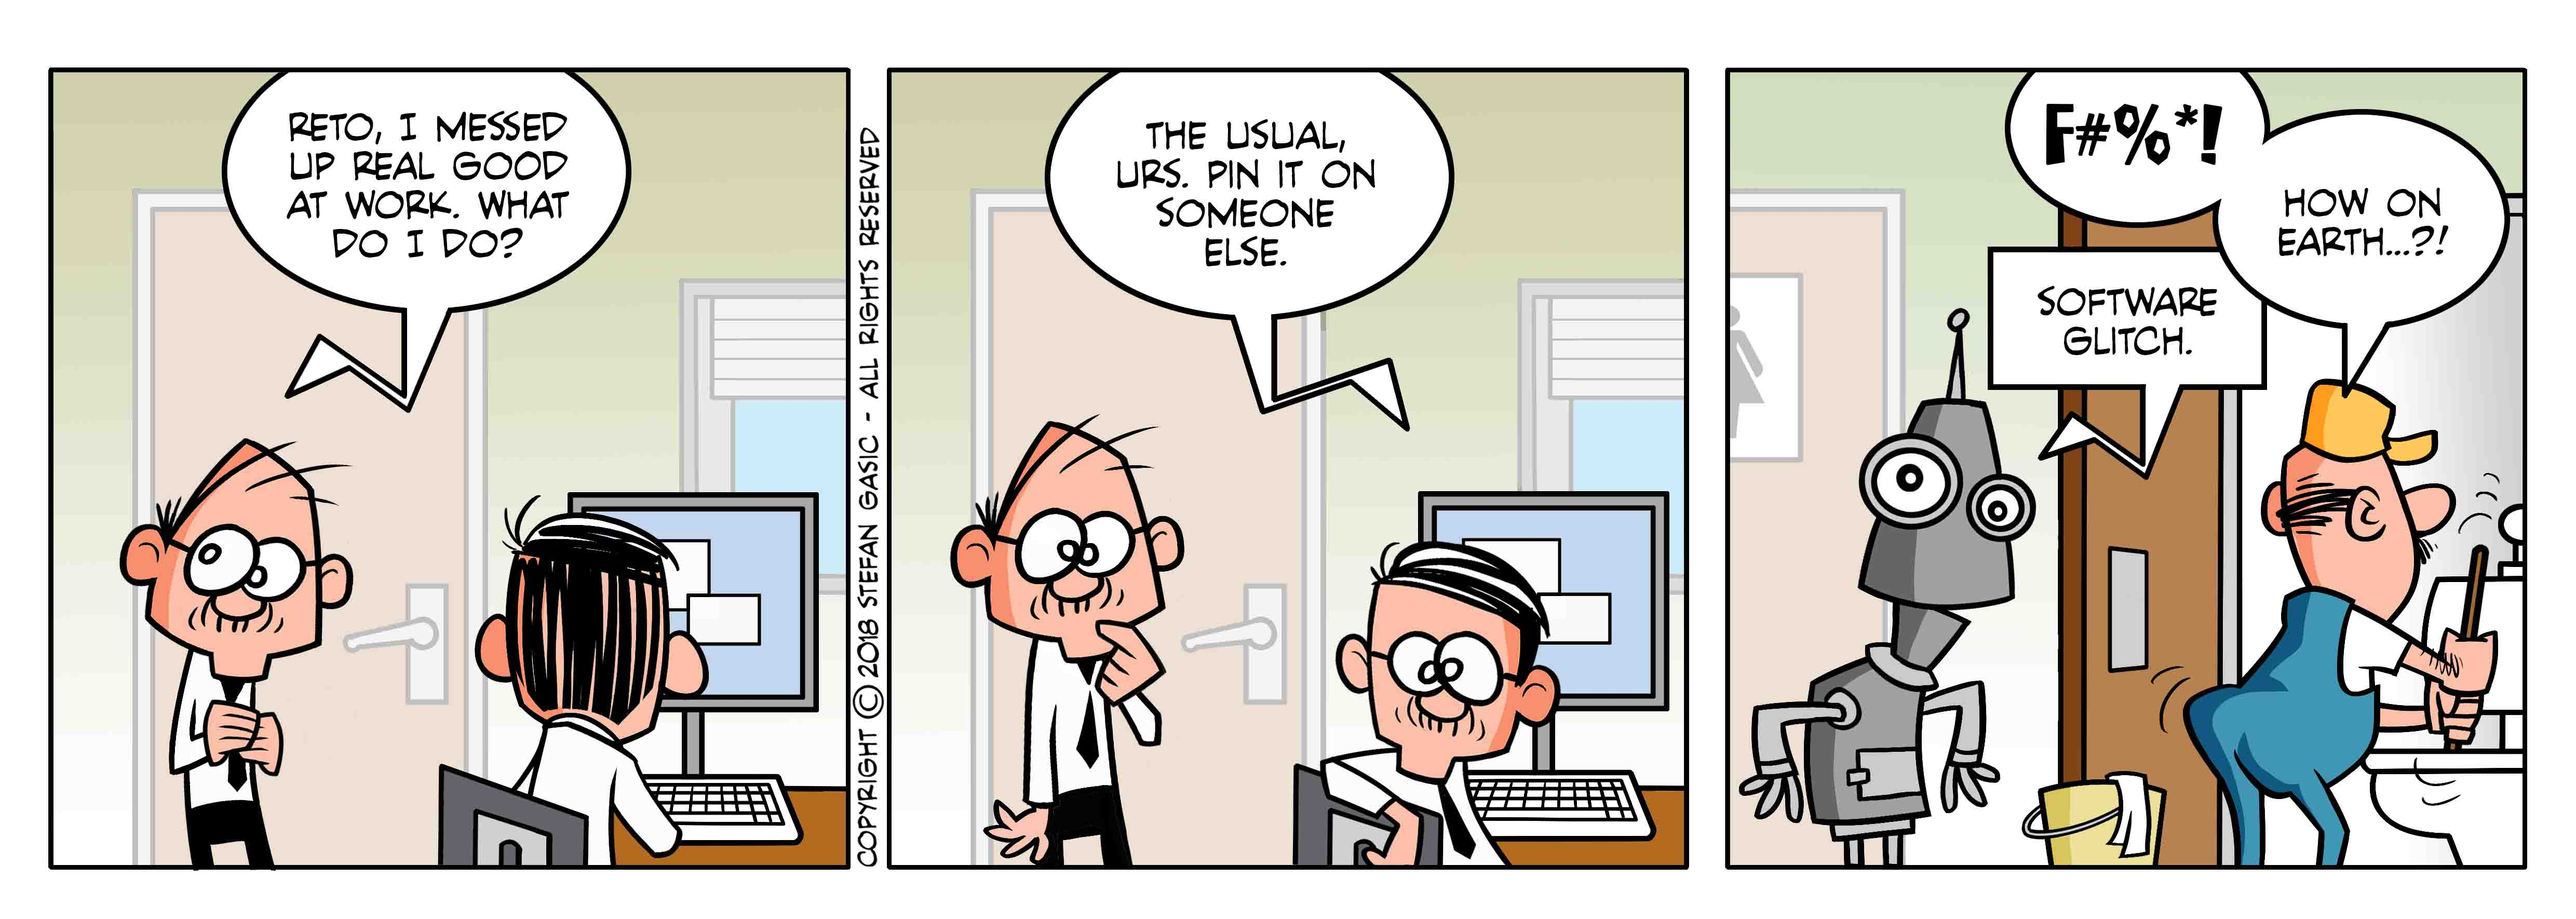
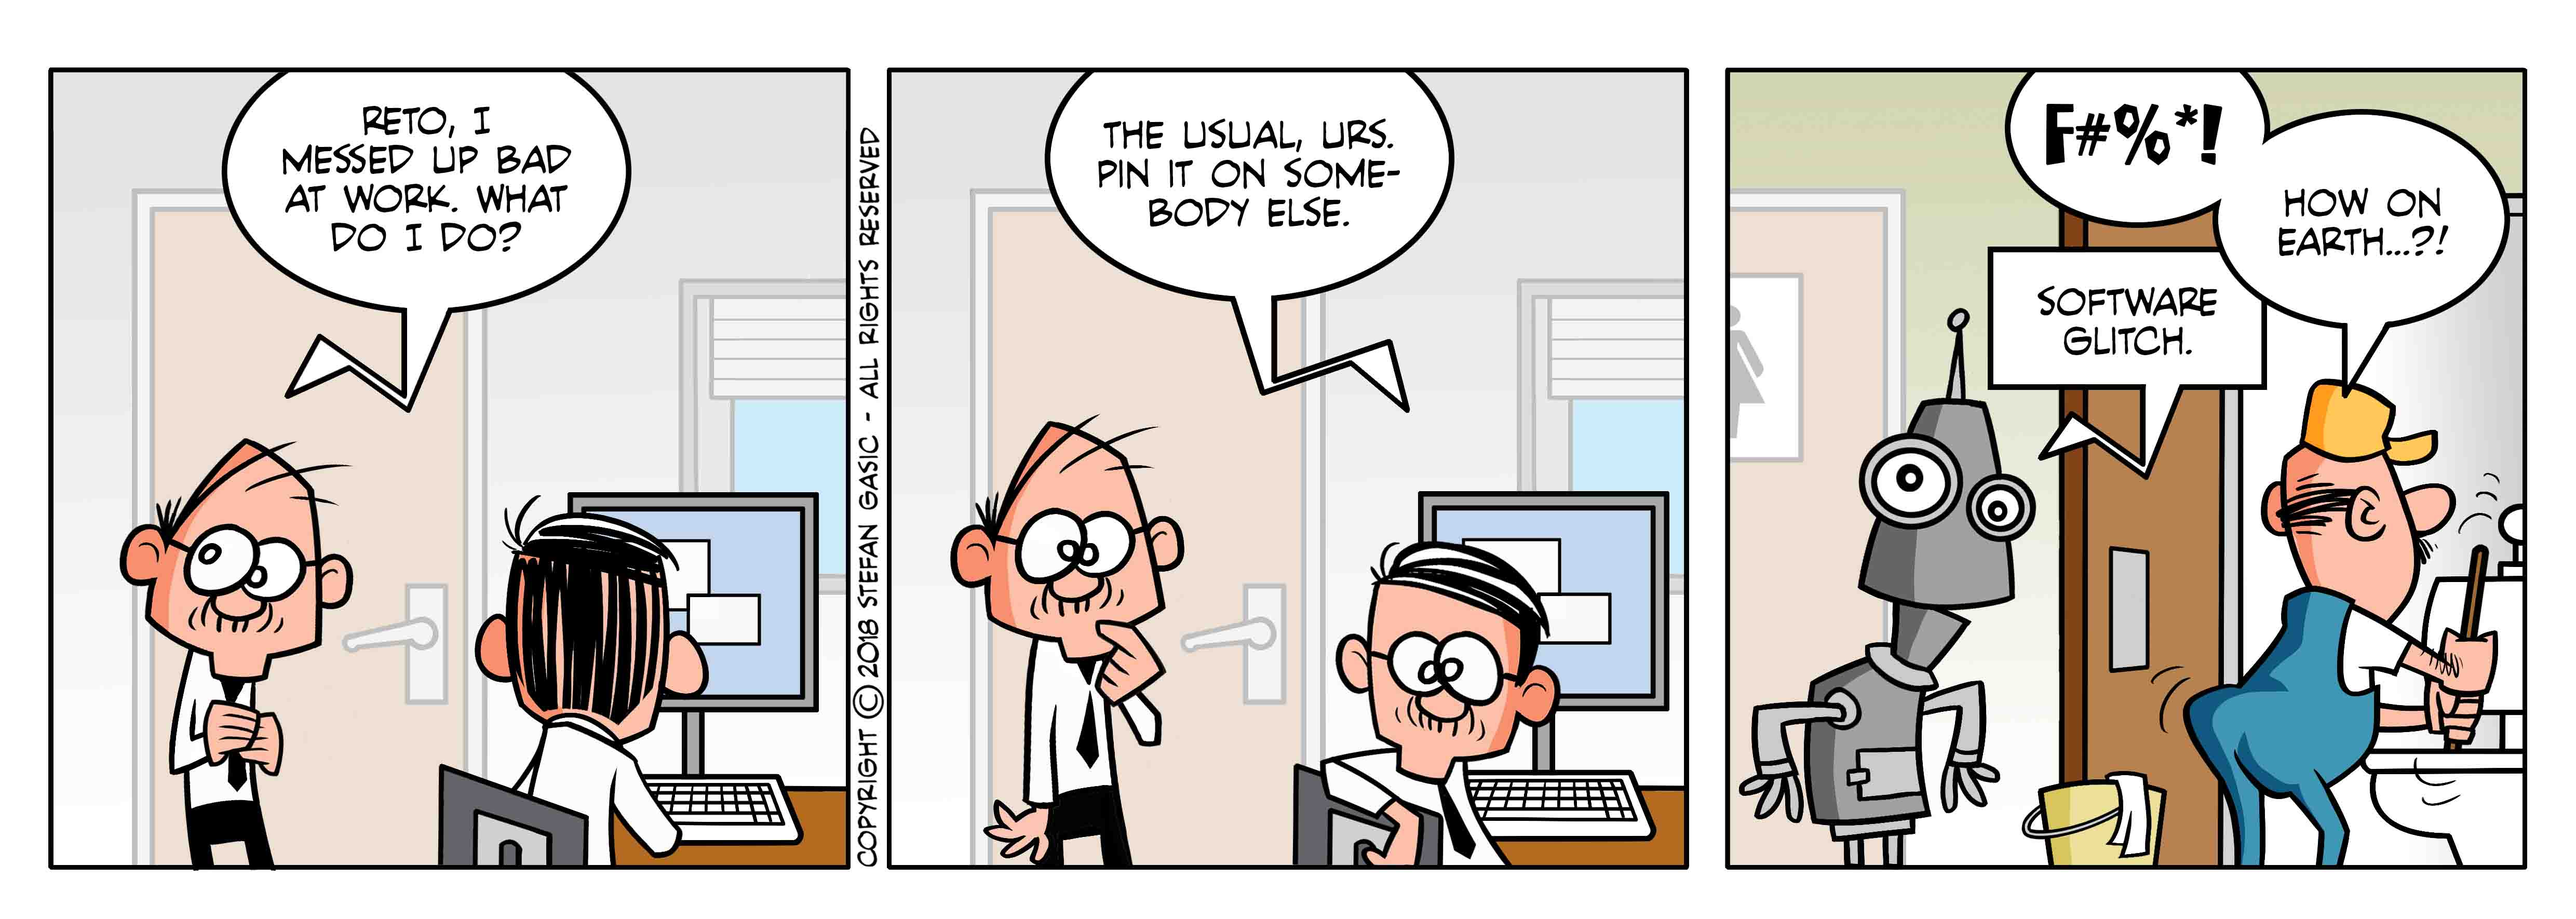
Added new strip and updated the html and js codes accordingly.

Changed region(s): [[0.0, 0.0621, 0.6561, 0.5593]]

diff --git a/myscripts.js b/myscripts.js
@@ -1,4 +1,4 @@
-var Strips = ["images/S270.jpg","images/S269.jpg","images/S268.jpg","images/S267.jpg","images/S266.jpg","images/S265.jpg","images/S264.jpg","images/S263.jpg","images/S262.jpg","images/S261.jpg","images/S260.jpg","images/S259.jpg","images/S258.jpg","images/S257.jpg","images/S256.jpg","images/S255.jpg","images/S254.jpg","images/S253.jpg","images/S252.jpg","images/S251.jpg","images/S250.jpg","images/S249.jpg","images/S248.jpg","images/S247.jpg","images/S246.jpg","images/S245.jpg","images/S244.jpg","images/S243.jpg","images/S242.jpg","images/S241.jpg","images/S240.jpg","images/S239.jpg","images/S238.jpg","images/S237.jpg","images/S236.jpg","images/S235.jpg","images/S234.jpg","images/S233.jpg","images/S232.jpg","images/S231.jpg","images/S230.jpg","images/S229.jpg","images/S228.jpg","images/S227.jpg","images/S226.jpg","images/S225.jpg","images/S224.jpg","images/S223.jpg","images/S222.jpg","images/S221.jpg","images/S220.jpg","images/S219.jpg","images/S218.jpg","images/S217.jpg","images/S216.jpg","images/S215.jpg","images/S214.jpg","images/S213.jpg","images/S212.jpg","images/S211.jpg","images/S210.jpg","images/S209.jpg","images/S208.jpg","images/S207.jpg","images/S206.jpg","images/S205.jpg","images/S204.jpg","images/S203.jpg","images/S202.jpg","images/S201.jpg","images/S200.jpg","images/S199.jpg","images/S198.jpg","images/S197.jpg","images/S196.jpg","images/S195.jpg","images/S194.jpg","images/S193.jpg","images/S192.jpg","images/S191.jpg","images/S190.jpg","images/S189.jpg","images/S188.jpg","images/S187.jpg","images/S186.jpg","images/S185.jpg","images/S184.jpg","images/S183.jpg","images/S182.jpg","images/S181.jpg","images/S180.jpg","images/S179.jpg","images/S178.jpg","images/S177.jpg","images/S176.jpg","images/S175.jpg","images/S174.jpg","images/S173.jpg","images/S172.jpg","images/S171.jpg","images/S170.jpg","images/S169.jpg","images/S168.jpg","images/S167.jpg","images/S166.jpg","images/S165.jpg","images/S164.jpg","images/S163.jpg","images/S162.jpg","images/S161.jpg","images/S160.jpg","images/S159.jpg","images/S158.jpg","images/S157.jpg","images/S156.jpg","images/S155.jpg","images/S154.jpg","images/S153.jpg","images/S152.jpg","images/S151.jpg","images/S150.jpg","images/S149.jpg","images/S148.jpg","images/S147.jpg","images/S146.jpg","images/S145.jpg","images/S144.jpg","images/S143.jpg","images/S142.jpg","images/S141.jpg","images/S140.jpg","images/S139.jpg","images/S138.jpg","images/S137.jpg","images/S136.jpg","images/S135.jpg","images/S134.jpg","images/S133.jpg","images/S132.jpg","images/S131.jpg","images/S130.jpg","images/S129.jpg","images/S128.jpg","images/S127.jpg","images/S126.jpg","images/S125.jpg","images/S124.jpg","images/S123.jpg","images/S122.jpg","images/S121.jpg","images/S120.jpg","images/S119.jpg","images/S118.jpg","images/S117.jpg","images/S116.jpg","images/S115.jpg","images/S114.jpg","images/S113.jpg","images/S112.jpg","images/S111.jpg","images/S110.jpg","images/S109.jpg","images/S108.jpg","images/S107.jpg","images/S106.jpg","images/S105.jpg","images/S104.jpg","images/S103.jpg","images/S102.jpg","images/S101.jpg","images/S100.jpg","images/S99.jpg","images/S98.jpg","images/S97.jpg","images/S96.jpg","images/S95.jpg","images/S94.jpg","images/S93.jpg","images/S92.jpg","images/S91.jpg","images/S90.jpg","images/S89.jpg","images/S88.jpg","images/S87.jpg","images/S86.jpg","images/S85.jpg","images/S84.jpg","images/S83.jpg","images/S82.jpg","images/S81.jpg","images/S80.jpg","images/S79.jpg","images/S78.jpg","images/S77.jpg","images/S76.jpg","images/S75.jpg","images/S74.jpg","images/S73.jpg","images/S72.jpg","images/S71.jpg","images/S70.jpg","images/S69.jpg","images/S68.jpg","images/S67.jpg","images/S66.jpg","images/S65.jpg","images/S64.jpg","images/S63.jpg","images/S62.jpg","images/S61.jpg","images/S60.jpg","images/S59.jpg","images/S58.jpg","images/S57.jpg","images/S56.jpg","images/S55.jpg","images/S54.jpg","images/S53.jpg","images/S52.jpg","images/S51.jpg","images/S50.jpg","images/S49.jpg","images/S48.jpg","images/S47.jpg","images/S46.jpg","images/S45.jpg","images/S44.jpg","images/S43.jpg","images/S42.jpg","images/S41.jpg","images/S40.jpg","images/S39.jpg","images/S38.jpg","images/S37.jpg","images/S36.jpg","images/S35.jpg","images/S34.jpg","images/S33.jpg","images/S32.jpg","images/S31.jpg","images/S30.jpg","images/S29.jpg","images/S28.jpg","images/S27.jpg","images/S26.jpg","images/S25.jpg","images/S24.jpg","images/S23.jpg","images/S22.jpg","images/S21.jpg","images/S20.jpg","images/S19.jpg","images/S18.jpg","images/S17.jpg","images/S16.jpg","images/S15.jpg","images/S14.jpg","images/S13.jpg","images/S12.jpg","images/S11.jpg","images/S10.jpg","images/S9.jpg","images/S8.jpg","images/S7.jpg","images/S6.jpg","images/S5.jpg","images/S4.jpg","images/S3.jpg","images/S2.jpg","images/S1.jpg"];
+var Strips = ["images/S271.jpg","images/S270.jpg","images/S269.jpg","images/S268.jpg","images/S267.jpg","images/S266.jpg","images/S265.jpg","images/S264.jpg","images/S263.jpg","images/S262.jpg","images/S261.jpg","images/S260.jpg","images/S259.jpg","images/S258.jpg","images/S257.jpg","images/S256.jpg","images/S255.jpg","images/S254.jpg","images/S253.jpg","images/S252.jpg","images/S251.jpg","images/S250.jpg","images/S249.jpg","images/S248.jpg","images/S247.jpg","images/S246.jpg","images/S245.jpg","images/S244.jpg","images/S243.jpg","images/S242.jpg","images/S241.jpg","images/S240.jpg","images/S239.jpg","images/S238.jpg","images/S237.jpg","images/S236.jpg","images/S235.jpg","images/S234.jpg","images/S233.jpg","images/S232.jpg","images/S231.jpg","images/S230.jpg","images/S229.jpg","images/S228.jpg","images/S227.jpg","images/S226.jpg","images/S225.jpg","images/S224.jpg","images/S223.jpg","images/S222.jpg","images/S221.jpg","images/S220.jpg","images/S219.jpg","images/S218.jpg","images/S217.jpg","images/S216.jpg","images/S215.jpg","images/S214.jpg","images/S213.jpg","images/S212.jpg","images/S211.jpg","images/S210.jpg","images/S209.jpg","images/S208.jpg","images/S207.jpg","images/S206.jpg","images/S205.jpg","images/S204.jpg","images/S203.jpg","images/S202.jpg","images/S201.jpg","images/S200.jpg","images/S199.jpg","images/S198.jpg","images/S197.jpg","images/S196.jpg","images/S195.jpg","images/S194.jpg","images/S193.jpg","images/S192.jpg","images/S191.jpg","images/S190.jpg","images/S189.jpg","images/S188.jpg","images/S187.jpg","images/S186.jpg","images/S185.jpg","images/S184.jpg","images/S183.jpg","images/S182.jpg","images/S181.jpg","images/S180.jpg","images/S179.jpg","images/S178.jpg","images/S177.jpg","images/S176.jpg","images/S175.jpg","images/S174.jpg","images/S173.jpg","images/S172.jpg","images/S171.jpg","images/S170.jpg","images/S169.jpg","images/S168.jpg","images/S167.jpg","images/S166.jpg","images/S165.jpg","images/S164.jpg","images/S163.jpg","images/S162.jpg","images/S161.jpg","images/S160.jpg","images/S159.jpg","images/S158.jpg","images/S157.jpg","images/S156.jpg","images/S155.jpg","images/S154.jpg","images/S153.jpg","images/S152.jpg","images/S151.jpg","images/S150.jpg","images/S149.jpg","images/S148.jpg","images/S147.jpg","images/S146.jpg","images/S145.jpg","images/S144.jpg","images/S143.jpg","images/S142.jpg","images/S141.jpg","images/S140.jpg","images/S139.jpg","images/S138.jpg","images/S137.jpg","images/S136.jpg","images/S135.jpg","images/S134.jpg","images/S133.jpg","images/S132.jpg","images/S131.jpg","images/S130.jpg","images/S129.jpg","images/S128.jpg","images/S127.jpg","images/S126.jpg","images/S125.jpg","images/S124.jpg","images/S123.jpg","images/S122.jpg","images/S121.jpg","images/S120.jpg","images/S119.jpg","images/S118.jpg","images/S117.jpg","images/S116.jpg","images/S115.jpg","images/S114.jpg","images/S113.jpg","images/S112.jpg","images/S111.jpg","images/S110.jpg","images/S109.jpg","images/S108.jpg","images/S107.jpg","images/S106.jpg","images/S105.jpg","images/S104.jpg","images/S103.jpg","images/S102.jpg","images/S101.jpg","images/S100.jpg","images/S99.jpg","images/S98.jpg","images/S97.jpg","images/S96.jpg","images/S95.jpg","images/S94.jpg","images/S93.jpg","images/S92.jpg","images/S91.jpg","images/S90.jpg","images/S89.jpg","images/S88.jpg","images/S87.jpg","images/S86.jpg","images/S85.jpg","images/S84.jpg","images/S83.jpg","images/S82.jpg","images/S81.jpg","images/S80.jpg","images/S79.jpg","images/S78.jpg","images/S77.jpg","images/S76.jpg","images/S75.jpg","images/S74.jpg","images/S73.jpg","images/S72.jpg","images/S71.jpg","images/S70.jpg","images/S69.jpg","images/S68.jpg","images/S67.jpg","images/S66.jpg","images/S65.jpg","images/S64.jpg","images/S63.jpg","images/S62.jpg","images/S61.jpg","images/S60.jpg","images/S59.jpg","images/S58.jpg","images/S57.jpg","images/S56.jpg","images/S55.jpg","images/S54.jpg","images/S53.jpg","images/S52.jpg","images/S51.jpg","images/S50.jpg","images/S49.jpg","images/S48.jpg","images/S47.jpg","images/S46.jpg","images/S45.jpg","images/S44.jpg","images/S43.jpg","images/S42.jpg","images/S41.jpg","images/S40.jpg","images/S39.jpg","images/S38.jpg","images/S37.jpg","images/S36.jpg","images/S35.jpg","images/S34.jpg","images/S33.jpg","images/S32.jpg","images/S31.jpg","images/S30.jpg","images/S29.jpg","images/S28.jpg","images/S27.jpg","images/S26.jpg","images/S25.jpg","images/S24.jpg","images/S23.jpg","images/S22.jpg","images/S21.jpg","images/S20.jpg","images/S19.jpg","images/S18.jpg","images/S17.jpg","images/S16.jpg","images/S15.jpg","images/S14.jpg","images/S13.jpg","images/S12.jpg","images/S11.jpg","images/S10.jpg","images/S9.jpg","images/S8.jpg","images/S7.jpg","images/S6.jpg","images/S5.jpg","images/S4.jpg","images/S3.jpg","images/S2.jpg","images/S1.jpg"];
 
 var Current = 0;
 var myStrip = null;

diff --git a/index.html b/index.html
@@ -38,7 +38,7 @@
 		<div class="wrapper6">
 			<div class="wrap-item61"><img src="images/2017_Offshorecomics_web_Today's Offshorecomic.jpg"/></div>
 		</div>
-		<div class="wrap-item1"><img src="images/S270.jpg" id="Strip"/></div>
+		<div class="wrap-item1"><img src="images/S271.jpg" id="Strip"/></div>
 		<div class="wrapper3">
 			<div class="wrap-item3">
 			<button class="button" onClick="Last();">&lsaquo;&lsaquo;</button>
